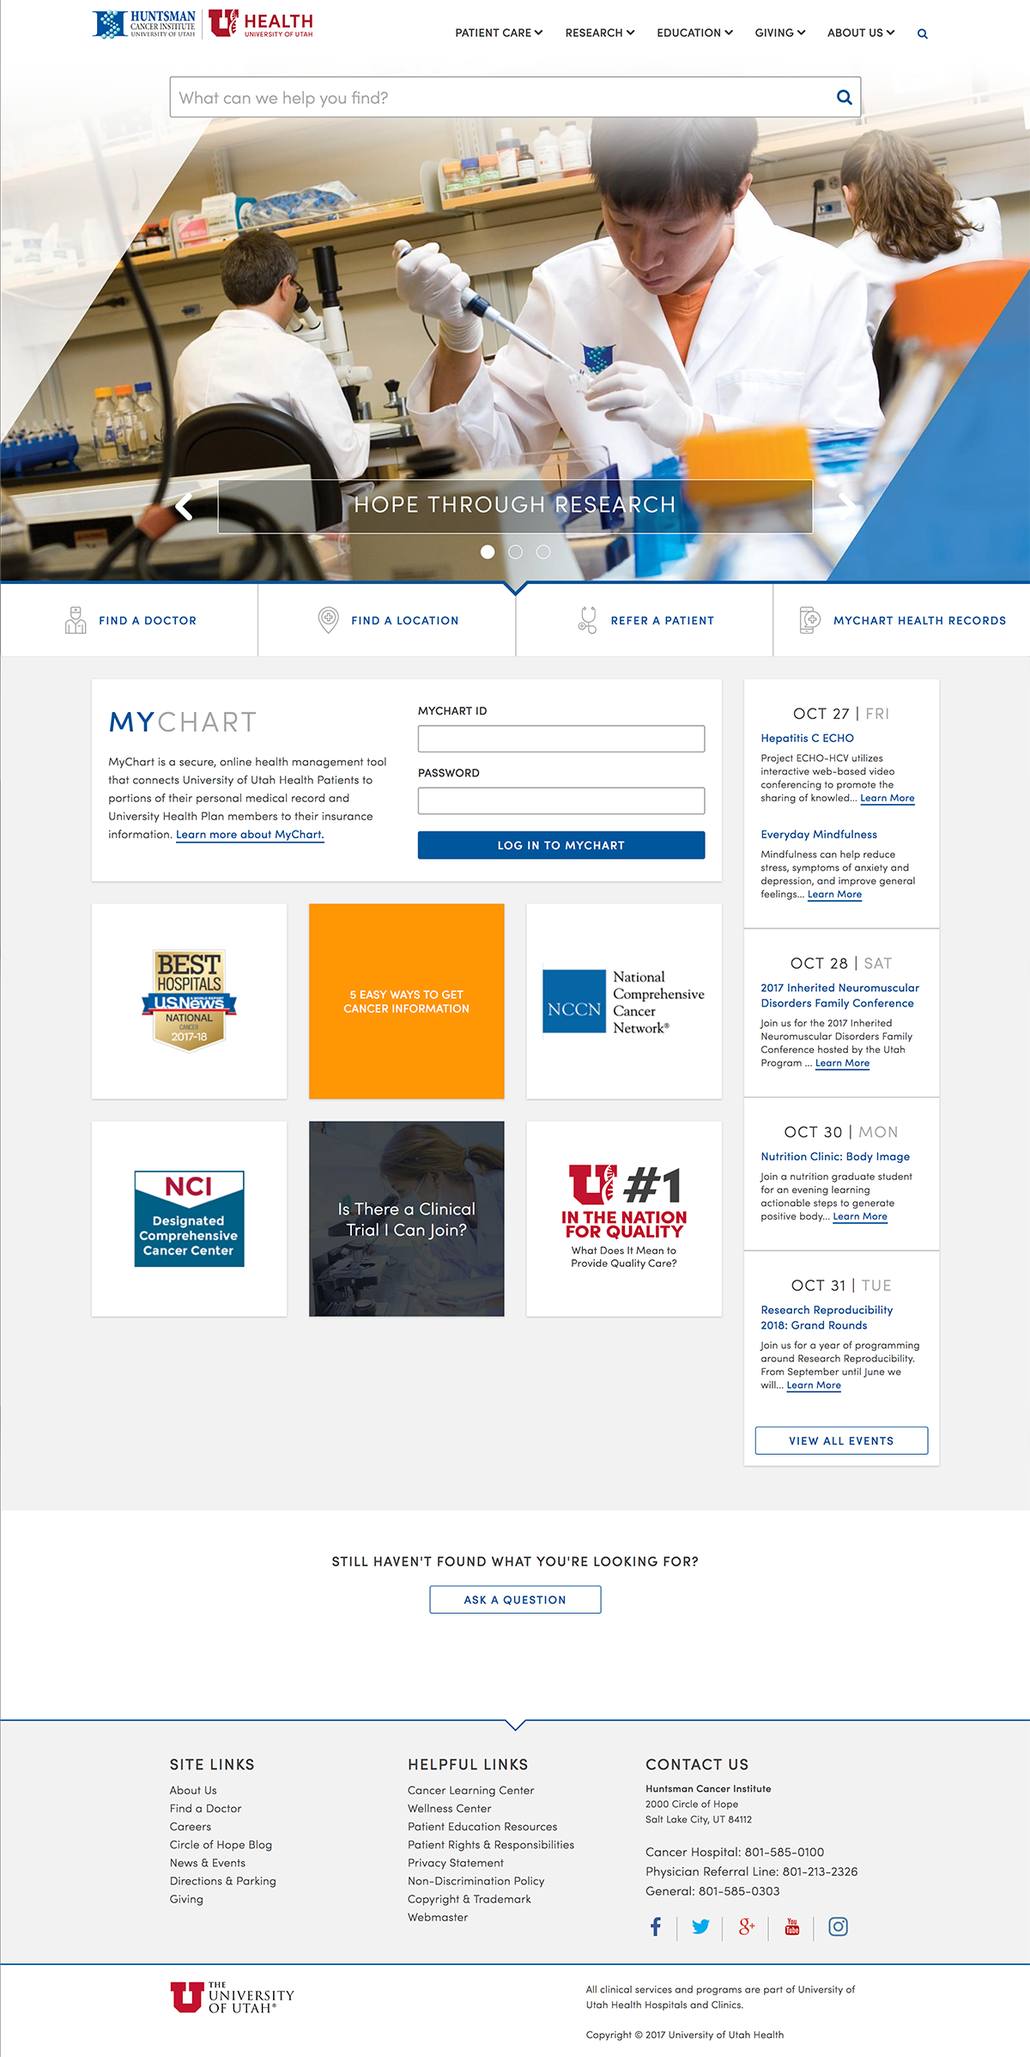
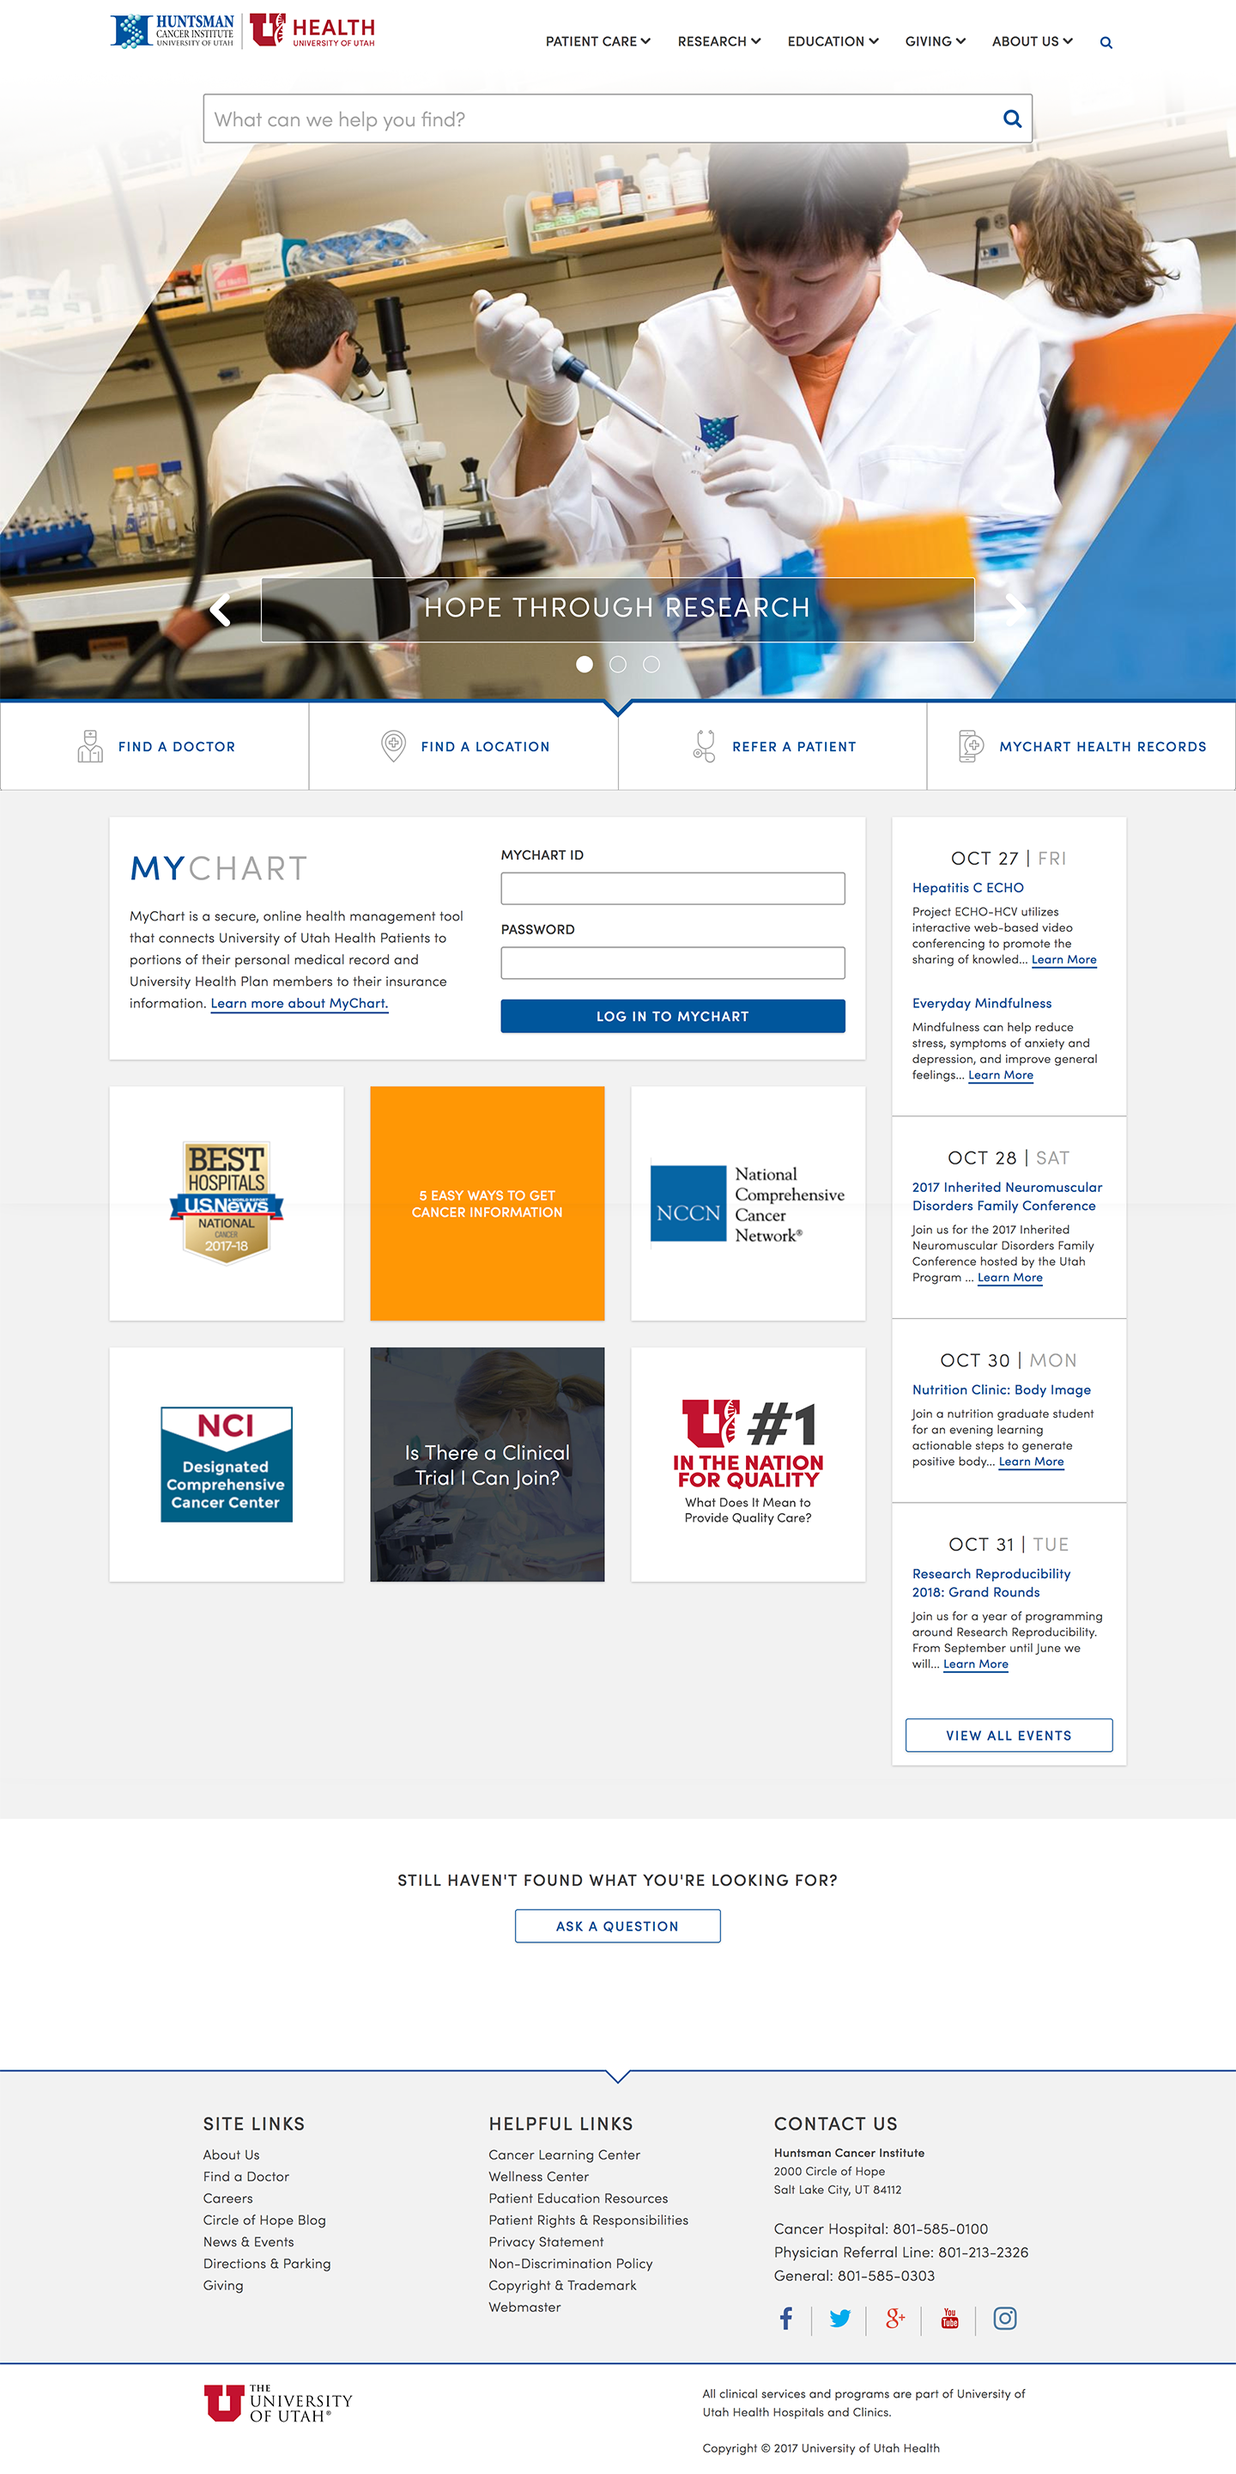
make large images of uuh and hci homepages, add uuh project with some basic copy, add uuh theme

diff --git a/assets/styles/styles.css b/assets/styles/styles.css
@@ -4,4 +4,4 @@ html{-ms-text-size-adjust:100%;-webkit-text-size-adjust:100%;-ms-overflow-style:
 /*! uncss:ignore */
 @media (max-width:48em){.c-zoom:after{background:#495057;color:#fff;content:'tap to expand';font-family:Merriweather Sans,Arial,sans-serif;font-size:12px;padding:4px 8px;position:absolute;right:0;text-transform:uppercase;top:0}}
 /*! uncss:ignore */
-.c-zoom\?full-size{cursor:zoom-out;max-height:8000px;max-width:100%}.t-work--hci .c-header__image-wrapper:after,.t-work--hci .c-project__image-wrapper:after{background-color:#1c7cd6}.t-work--hci .c-header__image,.t-work--hci .c-project__image{-webkit-filter:grayscale(50%);filter:grayscale(50%)}@media (min-width:48.01em){.t-work--hci .c-header__image,.t-work--hci .c-project__image{-webkit-filter:grayscale(50%) blur(2px);filter:grayscale(50%) blur(2px)}}.t-work--hci .c-button--primary{border:2px solid transparent;background-color:#1c7cd6;color:#fff}.t-work--hci .c-button--primary:not(:disabled):hover{background-color:#1662a9}.t-work--hci .c-button--primary:not(:disabled):focus{border-color:#329af0;box-shadow:inset 0 0 0 2px #329af0}.t-work--hci .c-button--primary:not(:disabled):active{background-color:#3f95e6}.t-work--turns .c-header__image-wrapper:after,.t-work--turns .c-project__image-wrapper:after{background-color:#15aabf}.t-work--turns .c-header__image,.t-work--turns .c-project__image{-webkit-filter:grayscale(25%);filter:grayscale(25%)}.t-work--turns .c-meta .c-icon,.t-work--turns .c-pagination .c-icon{color:#f76707}.t-work--turns .c-button--primary{border:2px solid transparent;background-color:#f76707;color:#fff}.t-work--turns .c-button--primary:not(:disabled):hover{background-color:#c55206}.t-work--turns .c-button--primary:not(:disabled):focus{border-color:#329af0;box-shadow:inset 0 0 0 2px #329af0}.t-work--turns .c-button--primary:not(:disabled):active{background-color:#f98538}.t-work--uucoh .c-header__image-wrapper:after,.t-work--uucoh .c-project__image-wrapper:after{background-color:#e03131}.t-work--uucoh .c-header__image,.t-work--uucoh .c-project__image{-webkit-filter:grayscale(50%);filter:grayscale(50%)}@media (min-width:48.01em){.t-work--uucoh .c-header__image,.t-work--uucoh .c-project__image{-webkit-filter:grayscale(50%) blur(2px);filter:grayscale(50%) blur(2px)}}.t-work--uucoh .c-meta .c-icon,.t-work--uucoh .c-pagination .c-icon{color:#e03131}.t-work--uucoh .c-button--primary{border:2px solid transparent;background-color:#f03e3e;color:#fff}.t-work--uucoh .c-button--primary:not(:disabled):hover{background-color:#e91212}.t-work--uucoh .c-button--primary:not(:disabled):focus{border-color:#329af0;box-shadow:inset 0 0 0 2px #329af0}.t-work--uucoh .c-button--primary:not(:disabled):active{background-color:#f46d6d}.t-work--uuhsc .c-header__image-wrapper:after,.t-work--uuhsc .c-project__image-wrapper:after,.t-work--uusom .c-header__image-wrapper:after,.t-work--uusom .c-project__image-wrapper:after{background-color:#f03e3e}.t-work--uuhsc .c-header__image,.t-work--uuhsc .c-project__image{-webkit-filter:grayscale(25%);filter:grayscale(25%)}@media (min-width:48.01em){.t-work--uuhsc .c-header__image,.t-work--uuhsc .c-project__image{-webkit-filter:grayscale(50%) blur(2px);filter:grayscale(50%) blur(2px)}}.t-work--uuhsc .c-meta .c-icon,.t-work--uuhsc .c-pagination .c-icon,.t-work--uusom .c-meta .c-icon,.t-work--uusom .c-pagination .c-icon{color:#74b816}.t-work--uuhsc .c-button--primary{border:2px solid transparent;background-color:#74b816;color:#fff}.t-work--uuhsc .c-button--primary:not(:disabled):hover{background-color:#578a11}.t-work--uuhsc .c-button--primary:not(:disabled):focus{border-color:#329af0;box-shadow:inset 0 0 0 2px #329af0}.t-work--uuhsc .c-button--primary:not(:disabled):active{background-color:#90e41d}.t-work--uusom .c-header__image,.t-work--uusom .c-project__image{-webkit-filter:grayscale(60%) brightness(.8);filter:grayscale(60%) brightness(.8)}@media (min-width:48.01em){.t-work--uusom .c-header__image,.t-work--uusom .c-project__image{-webkit-filter:grayscale(60%) brightness(.6) blur(1px);filter:grayscale(60%) brightness(.6) blur(1px)}}.t-work--uusom .c-button--primary{border:2px solid transparent;background-color:#74b816;color:#fff}.t-work--uusom .c-button--primary:not(:disabled):hover{background-color:#578a11}.t-work--uusom .c-button--primary:not(:disabled):focus{border-color:#329af0;box-shadow:inset 0 0 0 2px #329af0}.t-work--uusom .c-button--primary:not(:disabled):active{background-color:#90e41d}.u-background--grey-lighter{background-color:#f1f3f5!important}.u-background--grey-darker{background-color:#212529!important}.u-color--white{color:#fff!important}.u-color--grey-darker{color:#212529!important}.u-color--red-dark{color:#e03131!important}.u-color--blue{color:#1c7cd6!important}@media (min-width:48.01em){.u-color--white\@medium{color:#fff!important}}.u-hide{display:none!important}.u-block{display:block!important}.u-flex{display:-webkit-box!important;display:-ms-flexbox!important;display:flex!important}@media (min-width:30.01em){.u-block\@small{display:block!important}}@media (min-width:48.01em){.u-inline-block\@medium{display:inline-block!important}}.u-xsmall{font-size:.75em!important}.u-small{font-size:.925em!important}.u-line--title{line-height:1.25!important}.u-margin--none{margin:0!important}.u-margin-top--none{margin-top:0!important}.u-margin-top--small{margin-top:.5em!important}.u-margin-top--medium{margin-top:1em!important}.u-margin-top--xlarge{margin-top:2em!important}.u-margin-top--super{margin-top:3em!important}@media (min-width:48.01em){.u-margin-top--xsmall\@medium{margin-top:.25em!important}.u-margin-top--large\@medium{margin-top:1.5em!important}.u-margin-top--xlarge\@medium{margin-top:2em!important}.u-margin-top--super\@medium{margin-top:3em!important}}.u-padding--none{padding:0!important}.u-padding-horizontal--none{padding-left:0!important;padding-right:0!important}.u-padding-vertical--small{padding-top:.5em!important}.u-padding-bottom--small,.u-padding-vertical--small{padding-bottom:.5em!important}.u-padding--large{padding:1.5em!important}.u-padding-vertical--large{padding-top:1.5em!important}.u-padding-bottom--large,.u-padding-vertical--large{padding-bottom:1.5em!important}@media (min-width:48.01em){.u-padding--xlarge\@medium{padding:2em!important}.u-padding-vertical--super\@medium{padding-bottom:3em!important;padding-top:3em!important}.u-padding-bottom--super\@medium{padding-bottom:3em!important}}.u-center{text-align:center!important}@media (min-width:48.01em){.u-right\@medium{text-align:right!important}.u-white-space--nowrap\@medium{white-space:nowrap!important}}
+.c-zoom\?full-size{cursor:zoom-out;max-height:8000px;max-width:100%}.t-work--hci .c-header__image-wrapper:after,.t-work--hci .c-project__image-wrapper:after{background-color:#1c7cd6}.t-work--hci .c-header__image,.t-work--hci .c-project__image{-webkit-filter:grayscale(50%);filter:grayscale(50%)}@media (min-width:48.01em){.t-work--hci .c-header__image,.t-work--hci .c-project__image{-webkit-filter:grayscale(50%) blur(2px);filter:grayscale(50%) blur(2px)}}.t-work--hci .c-button--primary{border:2px solid transparent;background-color:#1c7cd6;color:#fff}.t-work--hci .c-button--primary:not(:disabled):hover{background-color:#1662a9}.t-work--hci .c-button--primary:not(:disabled):focus{border-color:#329af0;box-shadow:inset 0 0 0 2px #329af0}.t-work--hci .c-button--primary:not(:disabled):active{background-color:#3f95e6}.t-work--turns .c-header__image-wrapper:after,.t-work--turns .c-project__image-wrapper:after{background-color:#15aabf}.t-work--turns .c-header__image,.t-work--turns .c-project__image{-webkit-filter:grayscale(25%);filter:grayscale(25%)}.t-work--turns .c-meta .c-icon,.t-work--turns .c-pagination .c-icon{color:#f76707}.t-work--turns .c-button--primary{border:2px solid transparent;background-color:#f76707;color:#fff}.t-work--turns .c-button--primary:not(:disabled):hover{background-color:#c55206}.t-work--turns .c-button--primary:not(:disabled):focus{border-color:#329af0;box-shadow:inset 0 0 0 2px #329af0}.t-work--turns .c-button--primary:not(:disabled):active{background-color:#f98538}.t-work--uucoh .c-header__image-wrapper:after,.t-work--uucoh .c-project__image-wrapper:after,.t-work--uuh .c-header__image-wrapper:after,.t-work--uuh .c-project__image-wrapper:after{background-color:#e03131}.t-work--uucoh .c-header__image,.t-work--uucoh .c-project__image{-webkit-filter:grayscale(50%);filter:grayscale(50%)}@media (min-width:48.01em){.t-work--uucoh .c-header__image,.t-work--uucoh .c-project__image{-webkit-filter:grayscale(50%) blur(2px);filter:grayscale(50%) blur(2px)}}.t-work--uucoh .c-meta .c-icon,.t-work--uucoh .c-pagination .c-icon,.t-work--uuh .c-meta .c-icon,.t-work--uuh .c-pagination .c-icon{color:#e03131}.t-work--uucoh .c-button--primary{border:2px solid transparent;background-color:#f03e3e;color:#fff}.t-work--uucoh .c-button--primary:not(:disabled):hover{background-color:#e91212}.t-work--uucoh .c-button--primary:not(:disabled):focus{border-color:#329af0;box-shadow:inset 0 0 0 2px #329af0}.t-work--uucoh .c-button--primary:not(:disabled):active{background-color:#f46d6d}.t-work--uuh .c-header__image,.t-work--uuh .c-project__image{-webkit-filter:grayscale(50%);filter:grayscale(50%)}.t-work--uuh .c-button--primary{border:2px solid transparent;background-color:#e03131;color:#fff}.t-work--uuh .c-button--primary:not(:disabled):hover{background-color:#c11d1d}.t-work--uuh .c-button--primary:not(:disabled):focus{border-color:#329af0;box-shadow:inset 0 0 0 2px #329af0}.t-work--uuh .c-button--primary:not(:disabled):active{background-color:#e75d5d}.t-work--uuhsc .c-header__image-wrapper:after,.t-work--uuhsc .c-project__image-wrapper:after,.t-work--uusom .c-header__image-wrapper:after,.t-work--uusom .c-project__image-wrapper:after{background-color:#f03e3e}.t-work--uuhsc .c-header__image,.t-work--uuhsc .c-project__image{-webkit-filter:grayscale(25%);filter:grayscale(25%)}@media (min-width:48.01em){.t-work--uuhsc .c-header__image,.t-work--uuhsc .c-project__image{-webkit-filter:grayscale(50%) blur(2px);filter:grayscale(50%) blur(2px)}}.t-work--uuhsc .c-meta .c-icon,.t-work--uuhsc .c-pagination .c-icon,.t-work--uusom .c-meta .c-icon,.t-work--uusom .c-pagination .c-icon{color:#74b816}.t-work--uuhsc .c-button--primary{border:2px solid transparent;background-color:#74b816;color:#fff}.t-work--uuhsc .c-button--primary:not(:disabled):hover{background-color:#578a11}.t-work--uuhsc .c-button--primary:not(:disabled):focus{border-color:#329af0;box-shadow:inset 0 0 0 2px #329af0}.t-work--uuhsc .c-button--primary:not(:disabled):active{background-color:#90e41d}.t-work--uusom .c-header__image,.t-work--uusom .c-project__image{-webkit-filter:grayscale(60%) brightness(.8);filter:grayscale(60%) brightness(.8)}@media (min-width:48.01em){.t-work--uusom .c-header__image,.t-work--uusom .c-project__image{-webkit-filter:grayscale(60%) brightness(.6) blur(1px);filter:grayscale(60%) brightness(.6) blur(1px)}}.t-work--uusom .c-button--primary{border:2px solid transparent;background-color:#74b816;color:#fff}.t-work--uusom .c-button--primary:not(:disabled):hover{background-color:#578a11}.t-work--uusom .c-button--primary:not(:disabled):focus{border-color:#329af0;box-shadow:inset 0 0 0 2px #329af0}.t-work--uusom .c-button--primary:not(:disabled):active{background-color:#90e41d}.u-background--grey-lighter{background-color:#f1f3f5!important}.u-background--grey-darker{background-color:#212529!important}.u-color--white{color:#fff!important}.u-color--grey-darker{color:#212529!important}.u-color--red-dark{color:#e03131!important}.u-color--blue{color:#1c7cd6!important}@media (min-width:48.01em){.u-color--white\@medium{color:#fff!important}}.u-hide{display:none!important}.u-block{display:block!important}.u-flex{display:-webkit-box!important;display:-ms-flexbox!important;display:flex!important}@media (min-width:30.01em){.u-block\@small{display:block!important}}@media (min-width:48.01em){.u-inline-block\@medium{display:inline-block!important}}.u-xsmall{font-size:.75em!important}.u-small{font-size:.925em!important}.u-line--title{line-height:1.25!important}.u-margin--none{margin:0!important}.u-margin-top--none{margin-top:0!important}.u-margin-top--small{margin-top:.5em!important}.u-margin-top--medium{margin-top:1em!important}.u-margin-top--xlarge{margin-top:2em!important}.u-margin-top--super{margin-top:3em!important}@media (min-width:48.01em){.u-margin-top--xsmall\@medium{margin-top:.25em!important}.u-margin-top--large\@medium{margin-top:1.5em!important}.u-margin-top--xlarge\@medium{margin-top:2em!important}.u-margin-top--super\@medium{margin-top:3em!important}}.u-padding--none{padding:0!important}.u-padding-horizontal--none{padding-left:0!important;padding-right:0!important}.u-padding-vertical--small{padding-top:.5em!important}.u-padding-bottom--small,.u-padding-vertical--small{padding-bottom:.5em!important}.u-padding--large{padding:1.5em!important}.u-padding-vertical--large{padding-top:1.5em!important}.u-padding-bottom--large,.u-padding-vertical--large{padding-bottom:1.5em!important}@media (min-width:48.01em){.u-padding--xlarge\@medium{padding:2em!important}.u-padding-vertical--super\@medium{padding-bottom:3em!important;padding-top:3em!important}.u-padding-bottom--super\@medium{padding-bottom:3em!important}}.u-center{text-align:center!important}@media (min-width:48.01em){.u-right\@medium{text-align:right!important}.u-white-space--nowrap\@medium{white-space:nowrap!important}}

diff --git a/_work/2017-03-01-uofu-health.html b/_work/2017-03-01-uofu-health.html
@@ -1,0 +1,74 @@
+---
+layout: page
+title: University of Utah
+subtitle: Health
+hero: /assets/images/hero-uuh.jpg
+classes: t-work--uuh
+tags:
+  - front-end development
+---
+
+{% include lead.html content="The University of Utah Health project was a full rebrand designed to reflect the exciting strides the organization has made in research, education, and clinical care." %}
+
+<div class="l-container  l-container--medium  u-margin-top--none">
+	<div class="l-flex  l-flex--center">
+		<div class="l-flex__item  l-width--shrink@medium">
+			<a class="c-button  c-button--large  c-button--primary  c-button--expand" href="http://healthcare.utah.edu">
+				Visit Website
+				<svg class="c-icon  c-icon--small">
+					<use xlink:href="{{ site.baseurl }}/assets/icons/sprite.svg#external-link"></use>
+				</svg>
+			</a>
+		</div>
+		<div class="l-flex__item  l-width--shrink@medium">
+			<a class="c-button  c-button--large  c-button--ghost  c-button--expand" href="https://utahhealthcare.github.io/rebrand/">
+				View Style Guide
+				<svg class="c-icon  c-icon--small">
+					<use xlink:href="{{ site.baseurl }}/assets/icons/sprite.svg#external-link"></use>
+				</svg>
+			</a>
+		</div>
+	</div>
+</div>
+
+<section class="l-container  l-container--medium  u-margin-top--super@medium">
+	<p>I acted as full-stack developer on this project and worked closely with a content specialist to roll out websites for the college's seven departments in a short time.</p>
+</section>
+
+{% include zoom.html src="/assets/images/work__uuh--home.jpg" alt="University of Utah Health Homepage" %}
+
+{% include zoom.html src="/assets/images/work__uuh--hcihome.jpg" alt="Huntsman Cancer Institute Homepage" %}
+
+<section class="u-background--grey-lighter  u-margin-top--large@medium  u-padding-vertical--large">
+	<div class="l-container  l-container--medium  c-content">
+		<div class="l-flex">
+			<div class="l-flex__item  l-width--expand@medium">
+				<h3 class="u-color--red-dark">Skills</h3>
+				<ul>
+					<li>Prototyping</li>
+					<li>Documentation</li>
+					<li>Cross-Browser Testing</li>
+					<li>Performance Optimization</li>
+					<li>Search Engine Optimization</li>
+				</ul>
+			</div>
+			<div class="l-flex__item  l-width--expand@medium">
+				<h3 class="u-color--red-dark">Tools</h3>
+				<ul>
+					<li>Git</li>
+					<li>Sass</li>
+					<li>jQuery</li>
+					<li>Gulp</li>
+					<li>SVG</li>
+					<li><a href="http://trulia.github.io/hologram/">Hologram</a></li>
+				</ul>
+			</div>
+		</div>
+	</div>
+</section>
+
+<section class="l-container  l-container--medium  c-content">
+	<h2>Conclusion</h2>
+	<p>This project taught me the importance of documenting your work, even when you're the sole developer. In addition, I learned that there is no such thing as too much communication with a client.</p>
+	<p>The site was in use for two years until it was redesigned in order to unify all of University of Utah Health's academic sites. I played a key role in the redesign. You can read more about that project <a href="{{ site.baseurl }}/work/uofu-school-of-medicine/">here</a>.</p>
+</section>

diff --git a/_work/2015-01-01-uofu-health-sciences.html b/_work/2015-01-01-uofu-health-sciences.html
@@ -15,7 +15,7 @@ tags:
 <div class="l-container  l-container--medium  u-margin-top--none">
 	<div class="l-flex  l-flex--center">
 		<div class="l-flex__item  l-width--shrink@medium">
-			<a class="c-button  c-button--large  c-button--primary  c-button--expand" href="http://healthsciences.utah.edu">
+			<a class="c-button  c-button--large  c-button--primary  c-button--expand" href="http://uofuhealth.utah.edu">
 				Visit Website
 				<svg class="c-icon  c-icon--small">
 					<use xlink:href="{{ site.baseurl }}/assets/icons/sprite.svg#external-link"></use>
@@ -23,7 +23,7 @@ tags:
 			</a>
 		</div>
 		<div class="l-flex__item  l-width--shrink@medium">
-			<a class="c-button  c-button--large  c-button--ghost  c-button--expand" href="http://healthsciences.utah.edu/style/">
+			<a class="c-button  c-button--large  c-button--ghost  c-button--expand" href="http://uofuhealth.utah.edu/style/">
 				View Style Guide
 				<svg class="c-icon  c-icon--small">
 					<use xlink:href="{{ site.baseurl }}/assets/icons/sprite.svg#external-link"></use>

diff --git a/_assets/styles/themes/_themes.work--uuh.scss b/_assets/styles/themes/_themes.work--uuh.scss
@@ -1,0 +1,26 @@
+/* ==========================================================================
+   #UOFU-HEALTH-THEME
+   ========================================================================== */
+
+.t-work--uuh {
+
+	.c-header__image-wrapper:after,
+	.c-project__image-wrapper:after {
+		background-color: map-get($colors, red-dark);
+	}
+
+	.c-header__image,
+	.c-project__image {
+		filter: grayscale(50%);
+	}
+
+	.c-meta .c-icon,
+	.c-pagination .c-icon {
+		color: map-get($colors, red-dark);
+	}
+
+	.c-button--primary {
+		@include button-color(map-get($colors, red-dark), map-get($colors, white));
+	}
+
+}

diff --git a/_assets/styles/styles.scss b/_assets/styles/styles.scss
@@ -88,6 +88,7 @@
 @import "themes/themes.work--hci";
 @import "themes/themes.work--turns";
 @import "themes/themes.work--uucoh";
+@import "themes/themes.work--uuh";
 @import "themes/themes.work--uuhsc";
 @import "themes/themes.work--uusom";
 
